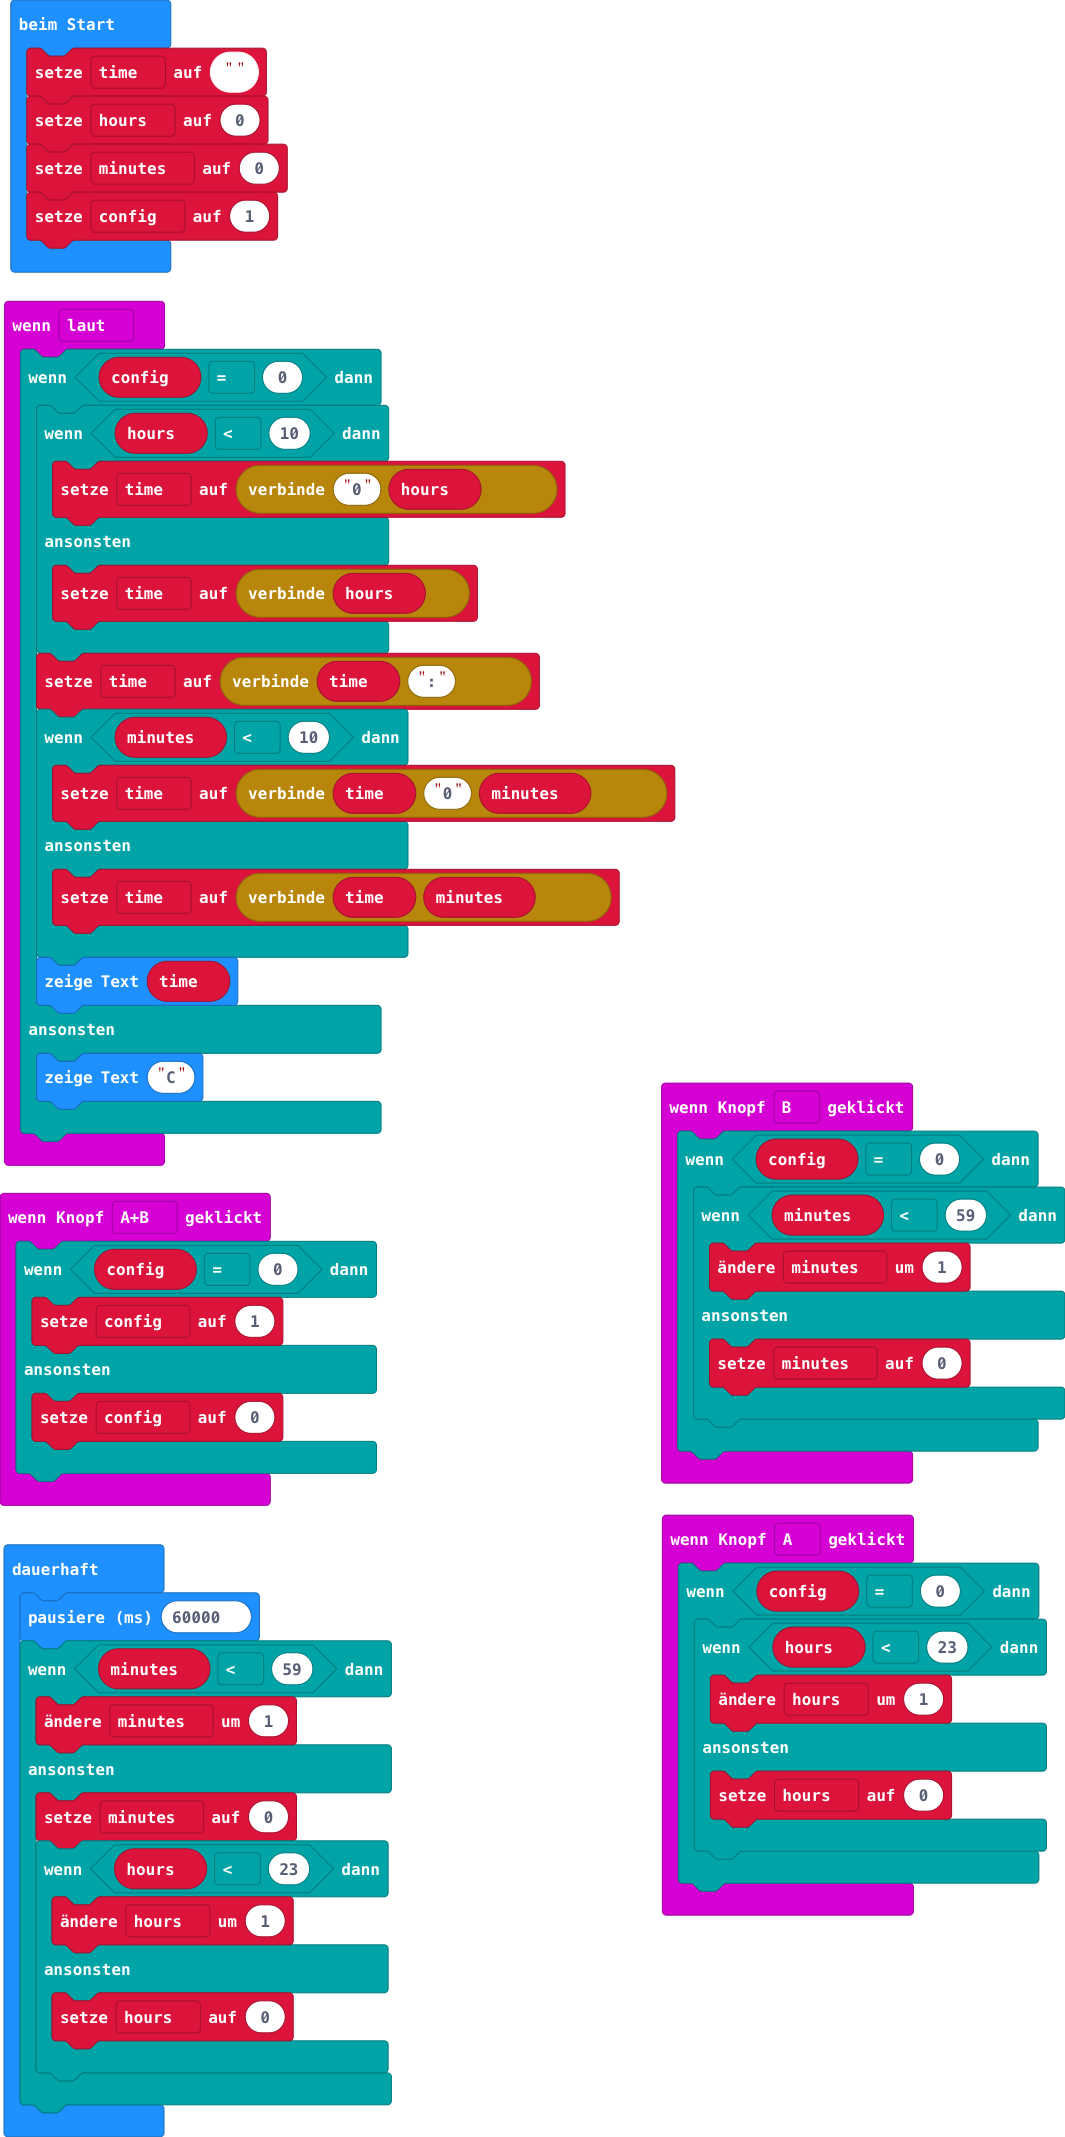
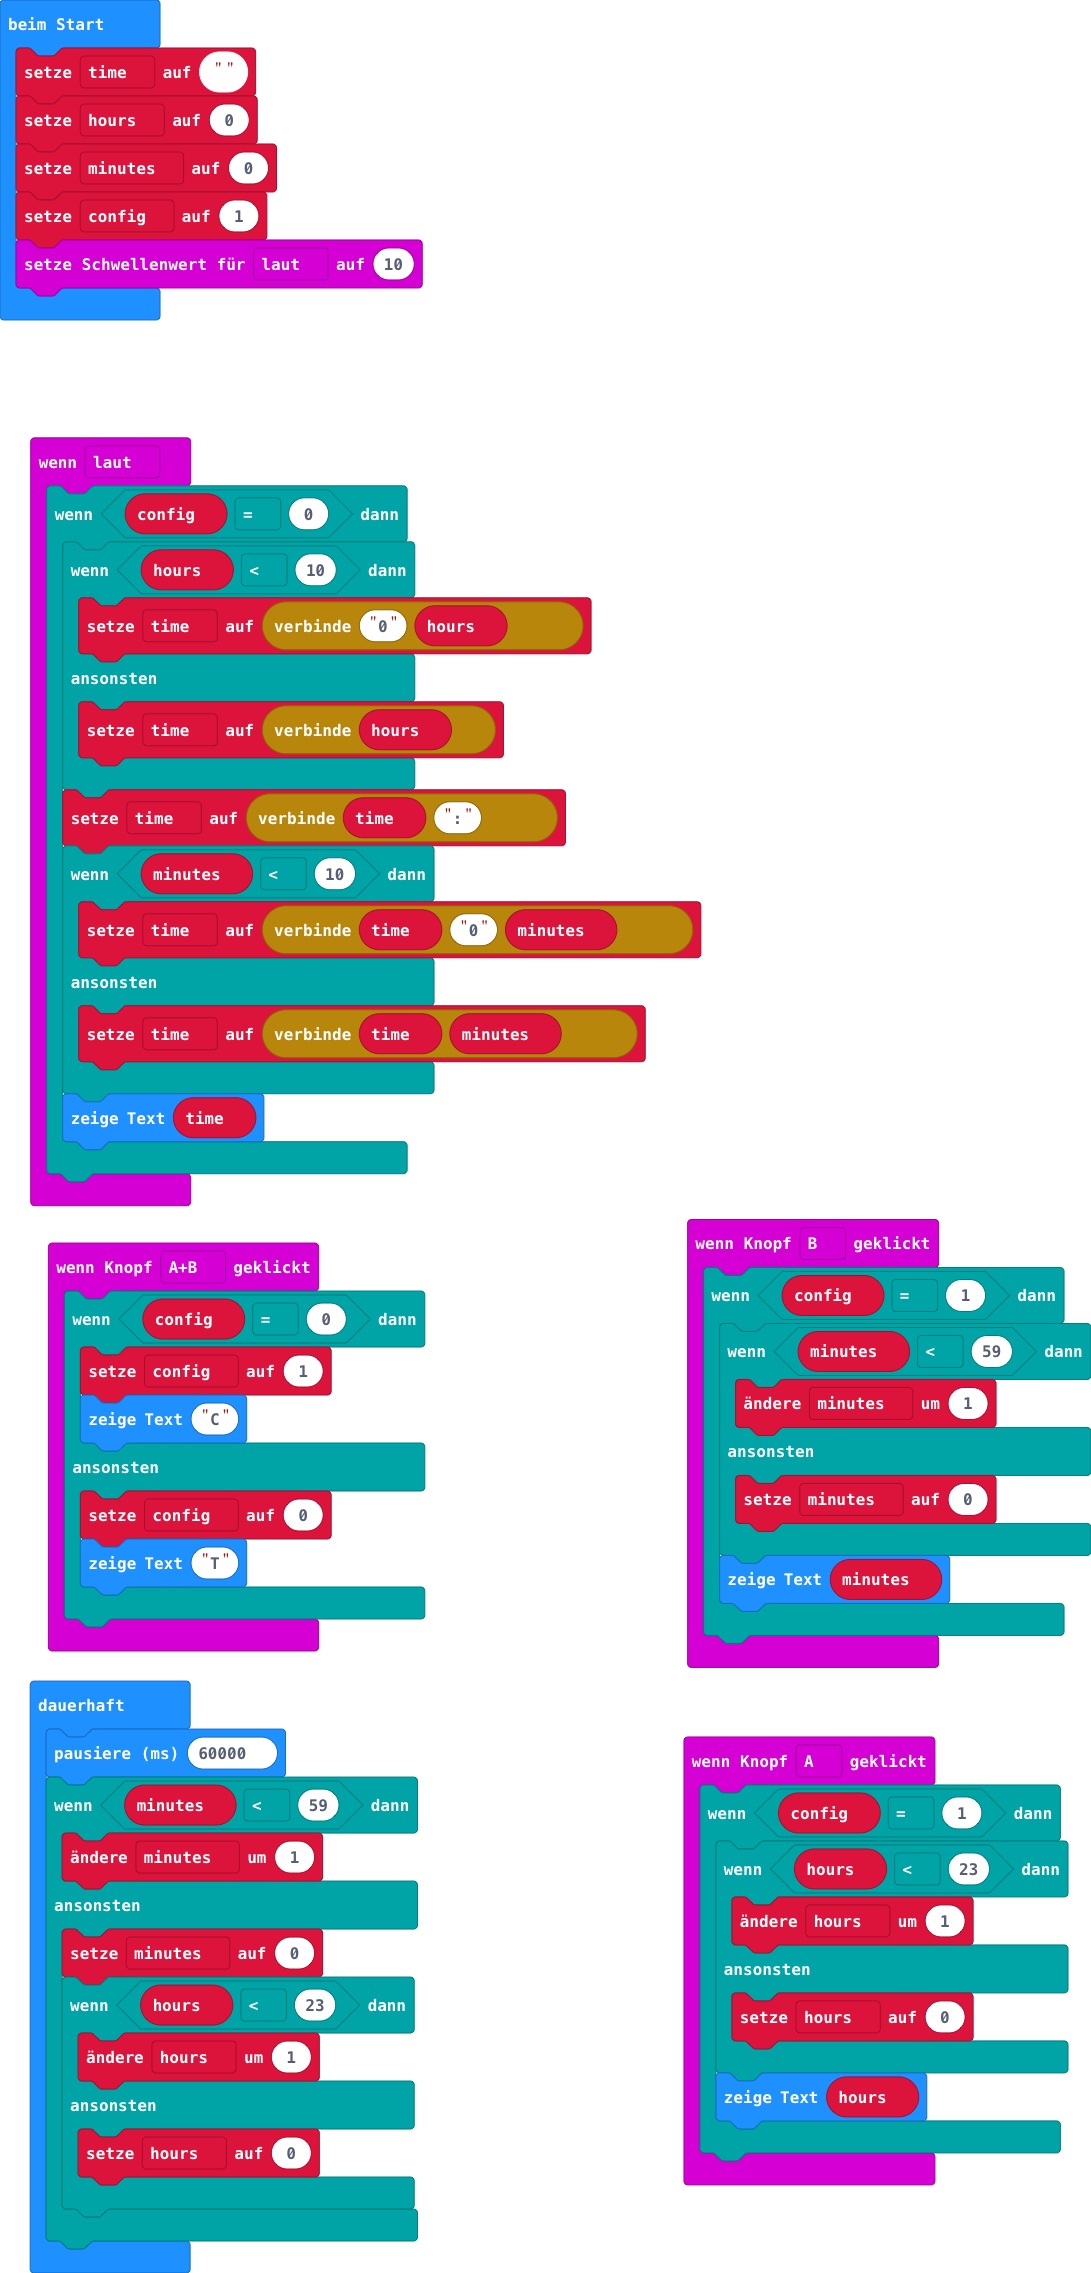
Korrekturen

diff --git a/main.ts b/main.ts
@@ -12,33 +12,35 @@ input.onSound(DetectedSound.Loud, function () {
             time = "" + time + minutes
         }
         basic.showString(time)
-    } else {
-        basic.showString("C")
     }
 })
 input.onButtonPressed(Button.A, function () {
-    if (config == 0) {
+    if (config == 1) {
         if (hours < 23) {
             hours += 1
         } else {
             hours = 0
         }
+        basic.showString("" + (hours))
     }
 })
 input.onButtonPressed(Button.AB, function () {
     if (config == 0) {
         config = 1
+        basic.showString("C")
     } else {
         config = 0
+        basic.showString("T")
     }
 })
 input.onButtonPressed(Button.B, function () {
-    if (config == 0) {
+    if (config == 1) {
         if (minutes < 59) {
             minutes += 1
         } else {
             minutes = 0
         }
+        basic.showString("" + (minutes))
     }
 })
 let config = 0
@@ -49,6 +51,7 @@ time = ""
 hours = 0
 minutes = 0
 config = 1
+input.setSoundThreshold(SoundThreshold.Loud, 10)
 basic.forever(function () {
     basic.pause(60000)
     if (minutes < 59) {
